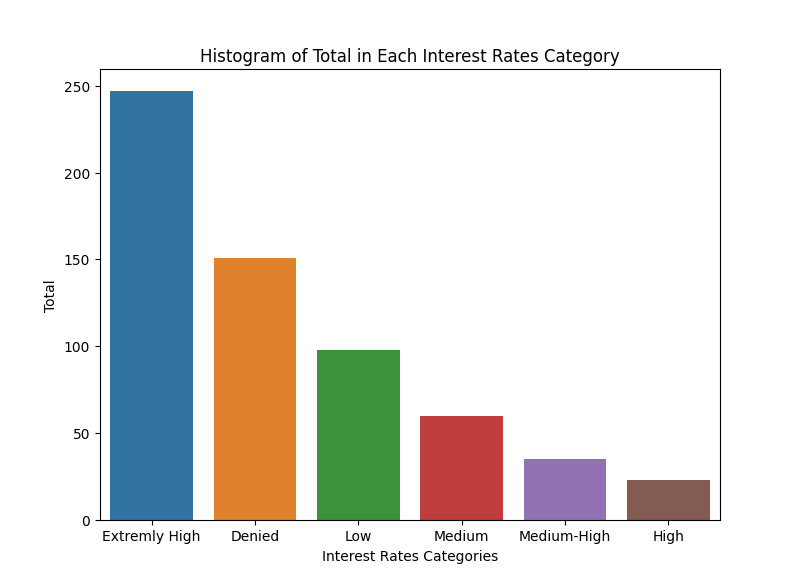
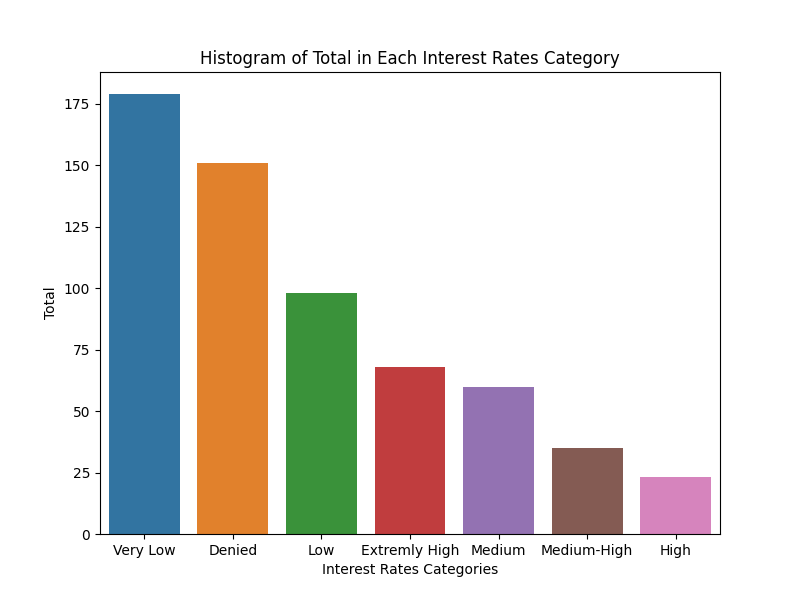
drop that genda column

diff --git a/code/predictions/approval_predictions.py b/code/predictions/approval_predictions.py
@@ -13,10 +13,10 @@ def predict_new_data(production=False, save=True):
         data = pd.read_csv('./data/predict_data.csv') # Load and preprocess the new data
     else:
         data = pd.read_csv('./preprocessing/raw_data/training_data.csv') # Load and preprocess the old training data
-        data = data.drop(['Loan_Status'], axis=1, errors='ignore') # when testing we already have the csv, but dont need Loan_Status as we are predicing that using the trained model
+        data = data.drop(['Loan_Status', 'Gender'], axis=1, errors='ignore') # when testing we already have the csv, but dont need Loan_Status as we are predicing that using the trained model
 
     label_encoders = {}
-    categorical_columns = ['Gender', 'Married', 'Dependents', 'Education', 'Self_Employed', 'Property_Area'] # encoding categorical columns
+    categorical_columns = ['Married', 'Dependents', 'Education', 'Self_Employed', 'Property_Area'] # encoding categorical columns
 
     for col in categorical_columns:
         label_encoders[col] = LabelEncoder()

diff --git a/code/main.py b/code/main.py
@@ -4,8 +4,8 @@ import predictions.approval_predictions as a_p # predict loan approvals
 import predictions.interest_predictions as i_p # predict interest rate brackets
 import analysis.results_analysis as ans # do analytics on our results
 
-production = True # if false then we train the models, if true then we predict new data 
-analytics_mode = True # if true no predicting or training, only an analysis of the strcutured data
+production = False # if false then we train the models, if true then we predict new data 
+analytics_mode = False # if true no predicting or training, only an analysis of the strcutured data
 
 def main_train():
     X_train, X_test, y_train, y_test, scaler = pp.preprocess_raw_data() # preprocess and train algorithm to generate model

diff --git a/code/preprocessing/standardization/preprocessing.py b/code/preprocessing/standardization/preprocessing.py
@@ -21,7 +21,7 @@ def preprocess_raw_data():
     for col in categorical_columns:
         data[col].fillna(data[col].mode()[0], inplace=True)
 
-    measured_fields = data.drop(['Loan_ID', 'Loan_Status'], axis=1)  # Split data into features (X) and target (y)
+    measured_fields = data.drop(['Loan_ID', 'Loan_Status', 'Gender'], axis=1)  # Split data into features (X) and target (y)
     target_field = data['Loan_Status']
 
     # Split data into train and test sets
